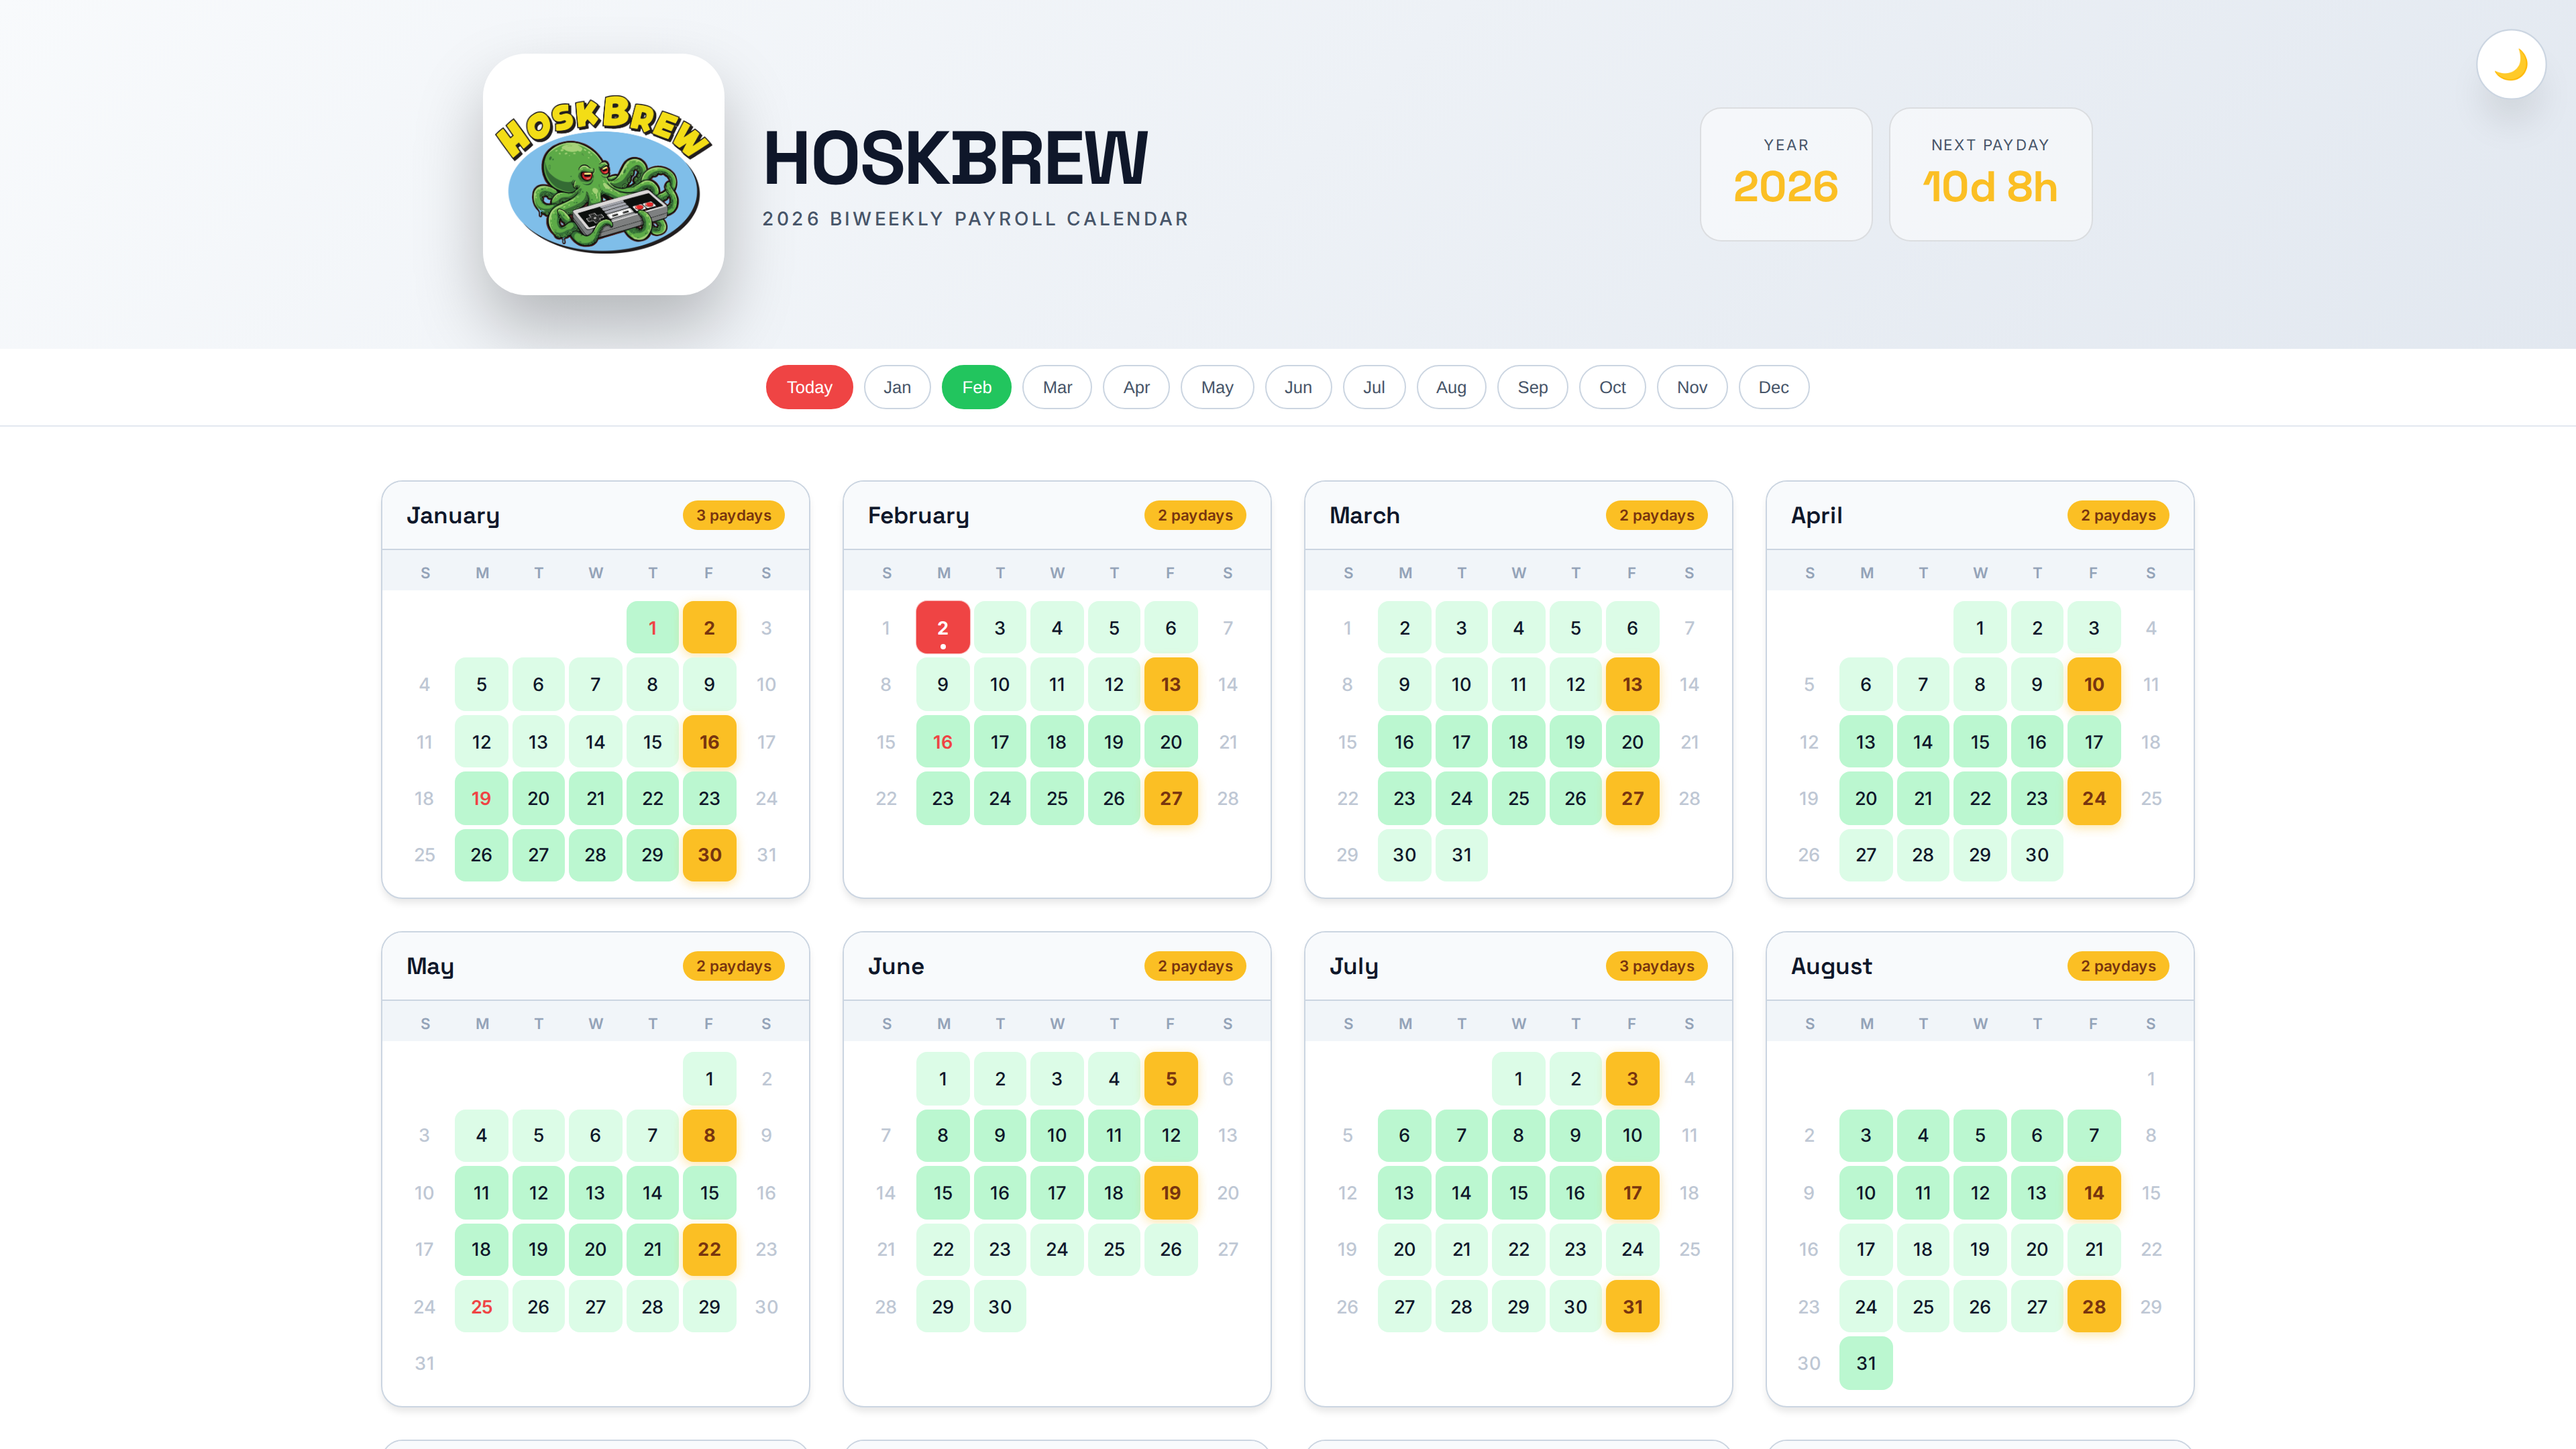
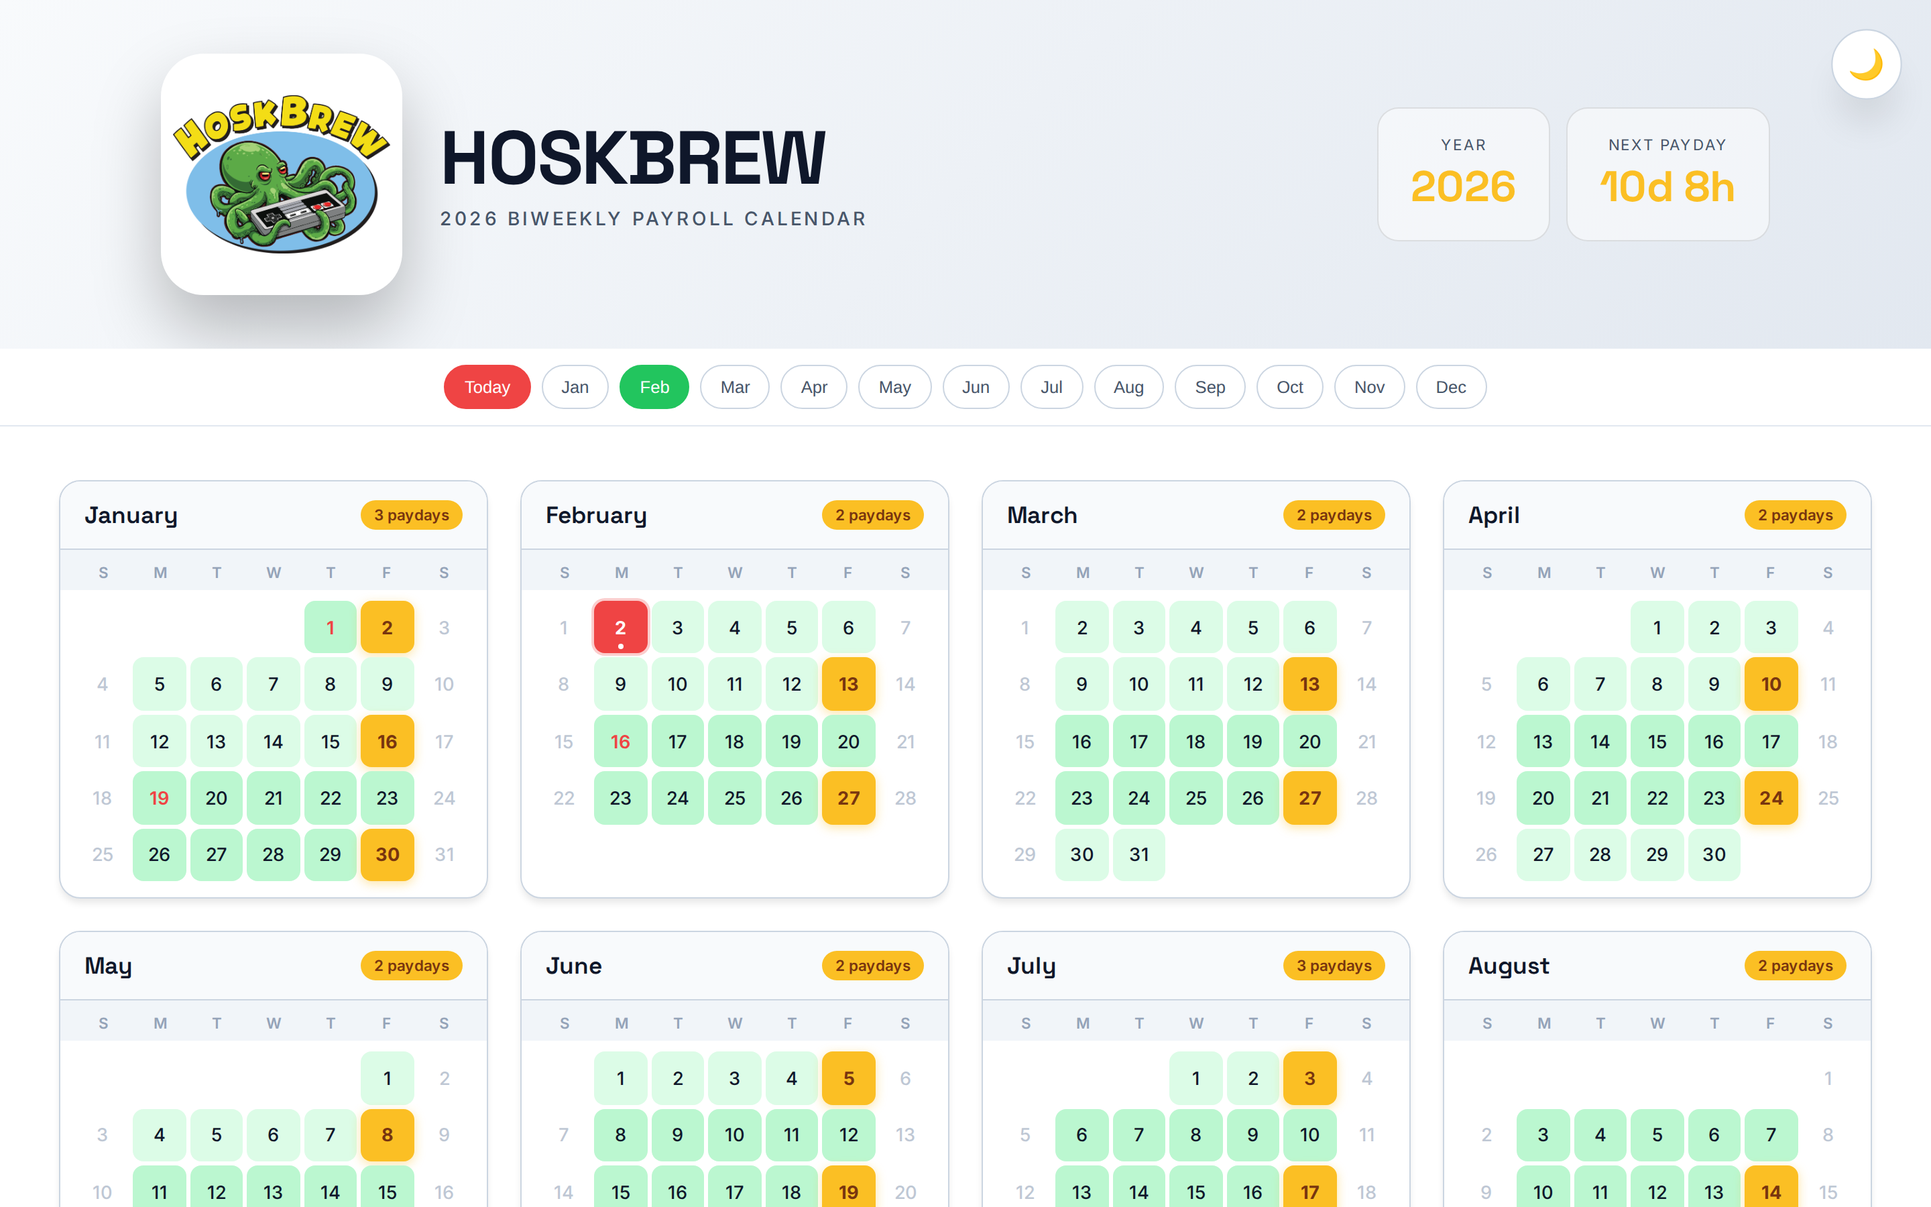
Fix mobile screenshots: strict viewport crop

diff --git a/capture-screenshots.js b/capture-screenshots.js
@@ -29,7 +29,7 @@ async function captureScreenshots() {
   try {
     console.log("Capturing desktop light theme...");
     const desktopContext = await browser.newContext({
-      viewport: { width: 1920, height: 1080 },
+      viewport: { width: 1440, height: 900 },
       deviceScaleFactor: 2,
     });
     const desktopPage = await desktopContext.newPage();
@@ -44,7 +44,7 @@ async function captureScreenshots() {
 
     console.log("Capturing desktop dark theme...");
     const desktopDarkContext = await browser.newContext({
-      viewport: { width: 1920, height: 1080 },
+      viewport: { width: 1440, height: 900 },
       deviceScaleFactor: 2,
     });
     const desktopDarkPage = await desktopDarkContext.newPage();
@@ -59,9 +59,12 @@ async function captureScreenshots() {
     console.log("✓ dark-desktop.png captured");
     await desktopDarkContext.close();
 
+    const MOBILE_WIDTH = 393;
+    const MOBILE_HEIGHT = 852;
+
     console.log("Capturing mobile light theme...");
     const mobileContext = await browser.newContext({
-      viewport: { width: 393, height: 852 },
+      viewport: { width: MOBILE_WIDTH, height: MOBILE_HEIGHT },
       deviceScaleFactor: 3,
       isMobile: true,
       hasTouch: true,
@@ -73,14 +76,14 @@ async function captureScreenshots() {
     await preparePage(mobilePage);
     await mobilePage.screenshot({
       path: path.join(OUTPUT_DIR, "light-mobile.png"),
-      fullPage: false,
+      clip: { x: 0, y: 0, width: MOBILE_WIDTH, height: MOBILE_HEIGHT },
     });
-    console.log("✓ light-mobile.png captured");
+    console.log("✓ light-mobile.png captured (Cropped)");
     await mobileContext.close();
 
     console.log("Capturing mobile dark theme...");
     const mobileDarkContext = await browser.newContext({
-      viewport: { width: 393, height: 852 },
+      viewport: { width: MOBILE_WIDTH, height: MOBILE_HEIGHT },
       deviceScaleFactor: 3,
       isMobile: true,
       hasTouch: true,
@@ -94,20 +97,20 @@ async function captureScreenshots() {
     await mobileDarkPage.waitForTimeout(500);
     await mobileDarkPage.screenshot({
       path: path.join(OUTPUT_DIR, "dark-mobile.png"),
-      fullPage: false,
+      clip: { x: 0, y: 0, width: MOBILE_WIDTH, height: MOBILE_HEIGHT },
     });
-    console.log("✓ dark-mobile.png captured");
+    console.log("✓ dark-mobile.png captured (Cropped)");
     await mobileDarkContext.close();
 
     console.log("Capturing feature highlights...");
     const featureContext = await browser.newContext({
-      viewport: { width: 1200, height: 800 },
+      viewport: { width: 1200, height: 600 },
       deviceScaleFactor: 2,
     });
     const featurePage = await featureContext.newPage();
     await featurePage.goto(URL, { waitUntil: "networkidle" });
     await preparePage(featurePage);
-    await featurePage.evaluate(() => window.scrollTo(0, 500));
+    await featurePage.evaluate(() => window.scrollTo(0, 400));
     await featurePage.waitForTimeout(500);
     await featurePage.screenshot({
       path: path.join(OUTPUT_DIR, "feature-overview.png"),
